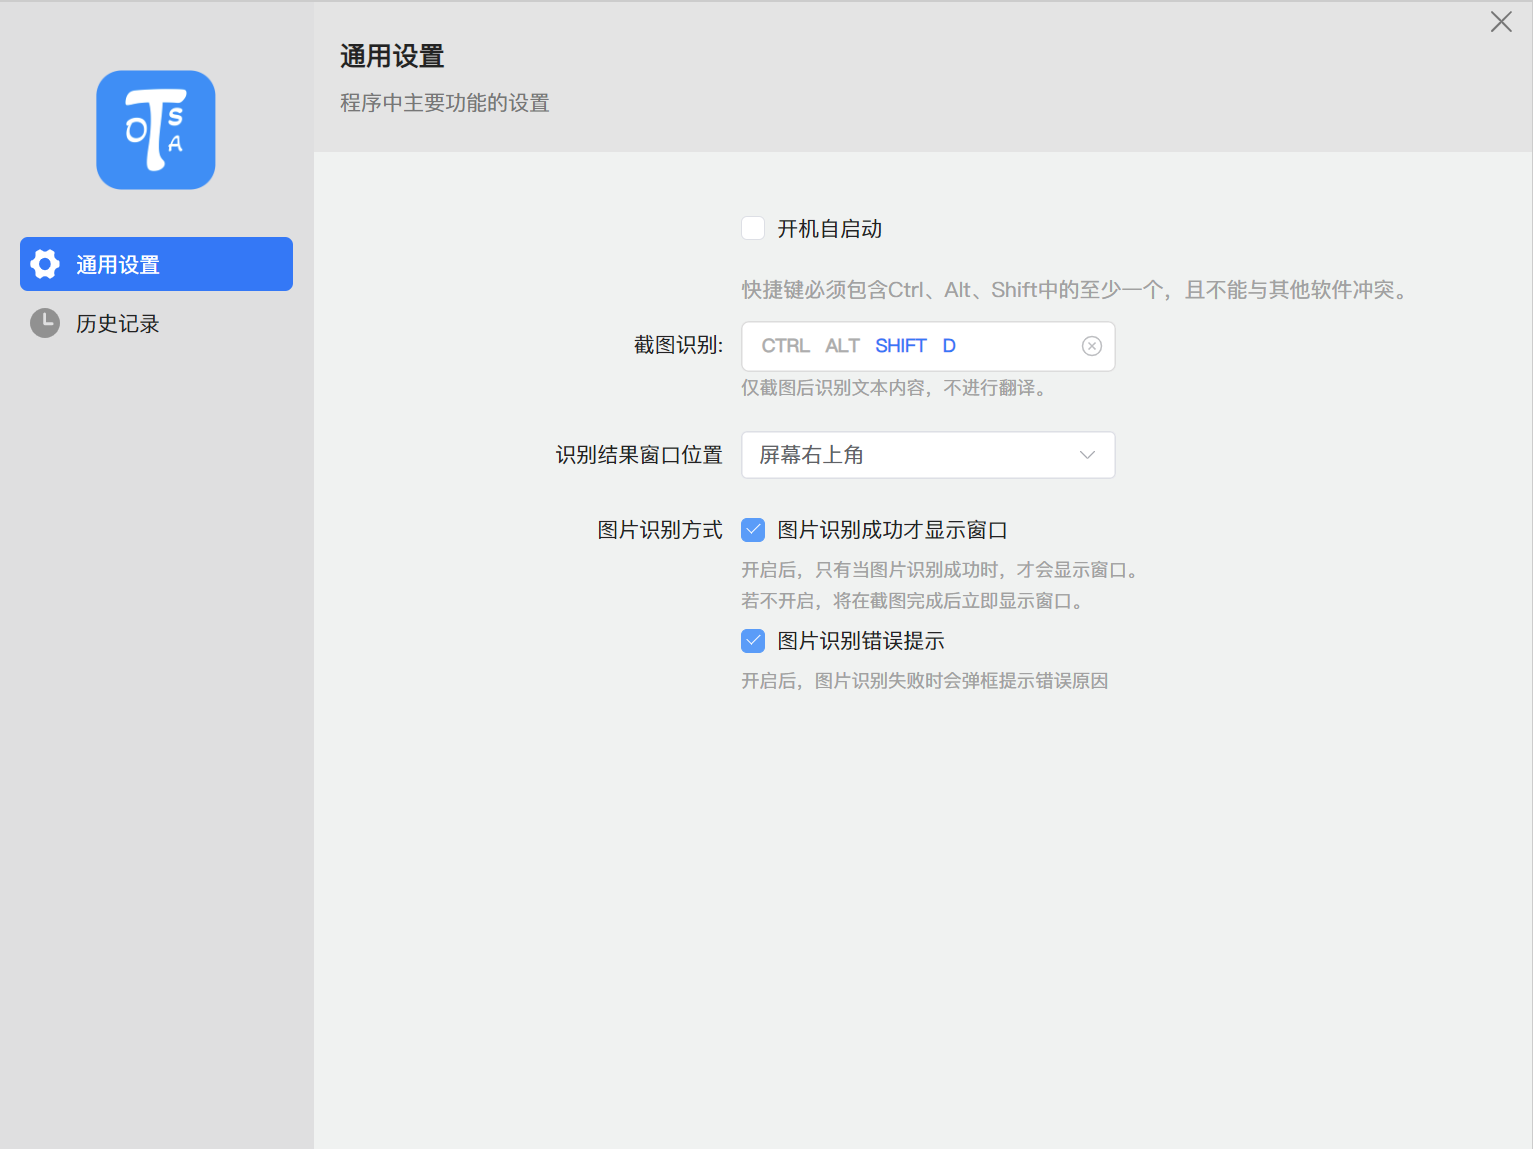
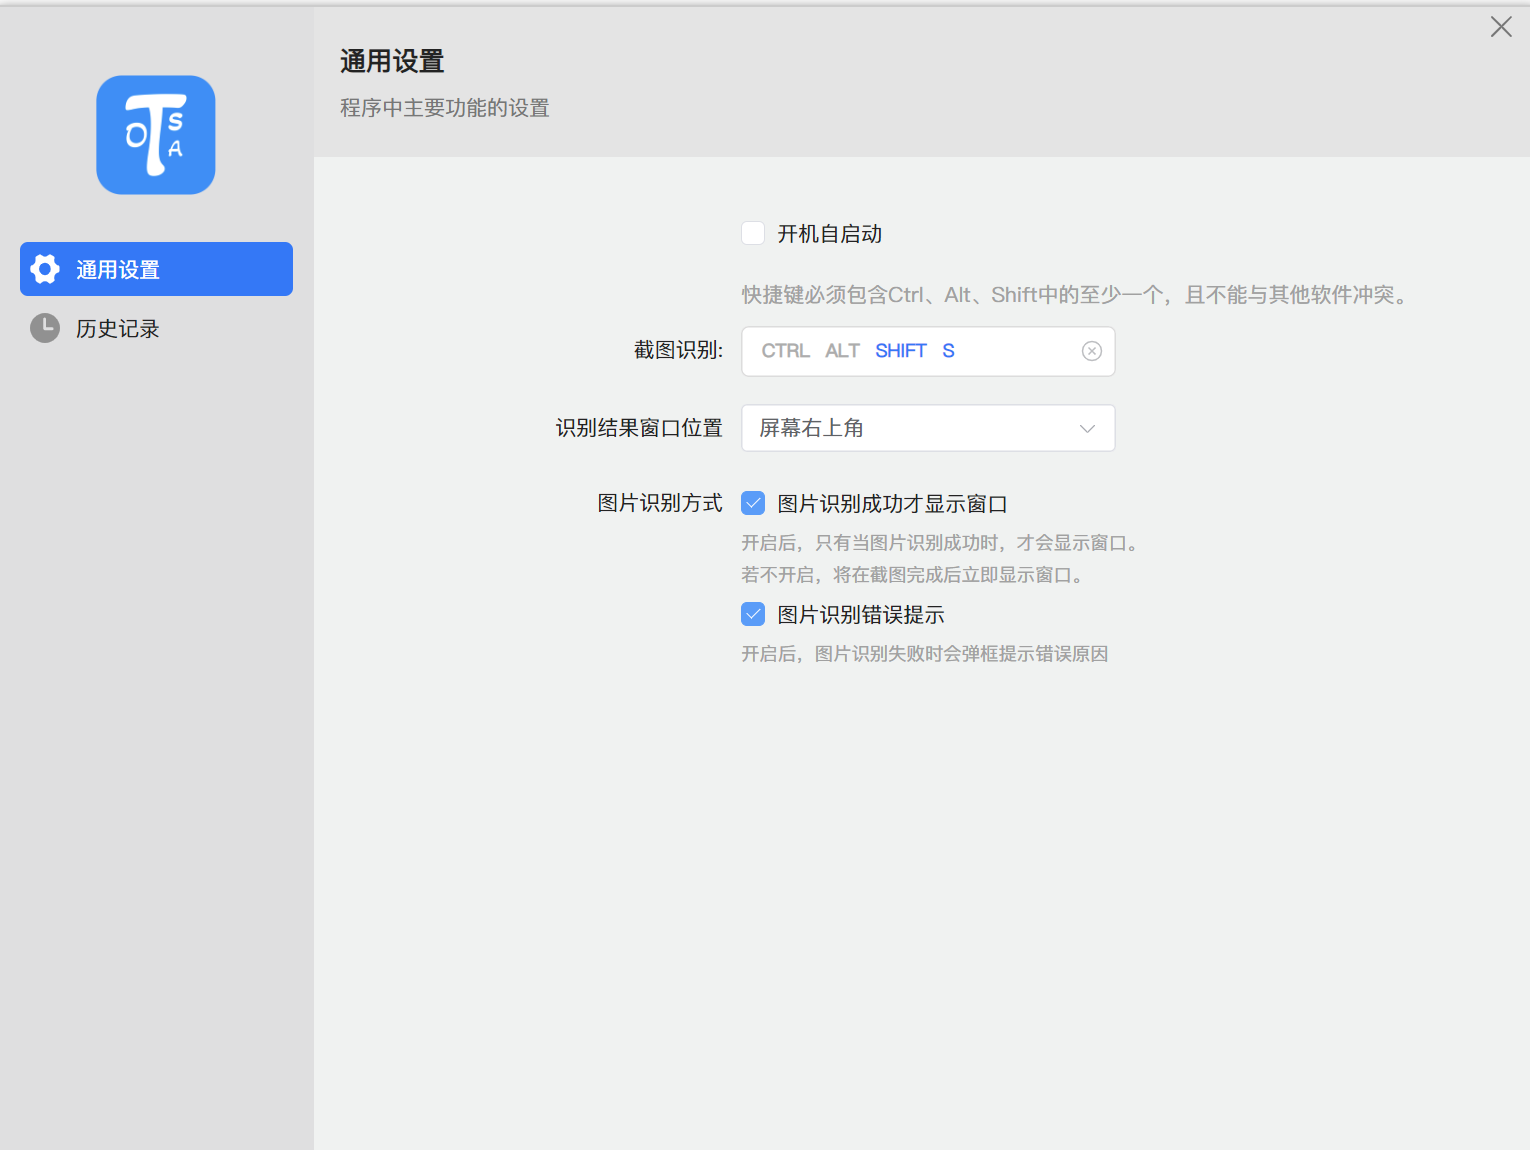
refactor: styles

diff --git a/src/Setting/General.vue b/src/Setting/General.vue
@@ -51,10 +51,9 @@ async function onToggleAutoStart(v) {
 			</div>
 			<el-form-item label="截图识别:">
 				<HotkeyInput v-model="conf.screenshot_recognizer" />
-				<div class="item-tip">仅截图后识别文本内容，不进行翻译。</div>
 			</el-form-item>
-			<el-form-item label="识别结果窗口位置">
-				<ElSelect v-model="conf.win_position" placeholder="请选择翻译窗口的位置" style="width: 250px">
+			<el-form-item label="识别窗口位置">
+				<ElSelect v-model="conf.win_position" placeholder="请选择识别窗口的位置" style="width: 250px">
 					<ElOption label="屏幕右上角" value="right-top" />
 					<ElOption label="屏幕中间" value="center" />
 					<ElOption label="鼠标位置" value="mouse" />
